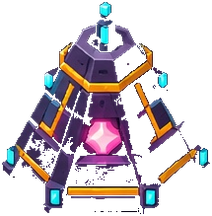
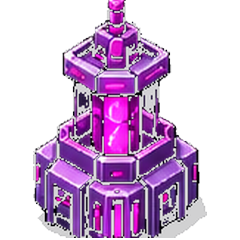
v4.3 : bâtiments extraits de la planche de référence Neo Industriel (paliers 1 à 6)
Claude-Session: https://claude.ai/code/session_011HZeq7nMyePUSvmzg3f7Gx

diff --git a/index.html b/index.html
@@ -4,7 +4,7 @@
 <meta charset="utf-8">
 <script>if(navigator.standalone)document.documentElement.classList.add('sa')</script>
 <meta name="viewport" content="width=device-width,initial-scale=1,viewport-fit=cover">
-<title>Mechkawaii San 三 v4.2</title>
+<title>Mechkawaii San 三 v4.3</title>
 <link rel="manifest" href="manifest.webmanifest">
 <link rel="icon" type="image/png" href="icons/icon-192.png">
 <link rel="apple-touch-icon" href="icons/apple-touch-icon.png">
@@ -122,7 +122,7 @@ html.sa .screen{padding-top:max(44px,env(safe-area-inset-top))!important}
     <button class="btn" id="bEnd">MODE INFINI</button>
     <button class="btn cy" id="bHelp">COMMENT JOUER</button>
   </div>
-  <div class="foot">Version 4.2 · planche de référence</div>
+  <div class="foot">Version 4.3 · bâtiments de la planche</div>
 </main>
 
 <main id="select" class="screen">
@@ -1473,7 +1473,7 @@ function drawHeroTo(cv,id,f=0){const g=cv.getContext('2d');g.imageSmoothingEnabl
 function tickScore(){if(!G)return;if(G.shown<G.score){G.shown=Math.min(G.score,G.shown+Math.max(1,Math.ceil((G.score-G.shown)/8)))}$('hScore').textContent=G?G.shown:0}
 
 
-/* ---------- essai HD (v4.2) : sprites et tuiles haute résolution, ?hd=0 pour revenir au pixel art ---------- */
+/* ---------- essai HD (v4.3) : sprites et tuiles haute résolution, ?hd=0 pour revenir au pixel art ---------- */
 const HD={on:!/[?&]hd=0/.test(location.search),tiles:null,b:{},n:0,cache:new Map(),CELL:128};
 (function(){if(!HD.on)return;const ld=(src,cb)=>{const im=new Image();im.onload=()=>{cb(im);HD.n++;groundKey='';HD.cache.clear()};im.src=src};
   ld('assets/hd/tiles.png',im=>HD.tiles=im);[1,2,3,4,5,6].forEach(t=>ld('assets/hd/b'+t+'.png',im=>HD.b[t]=im))})();
